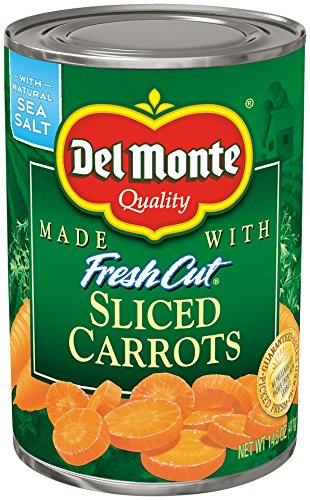
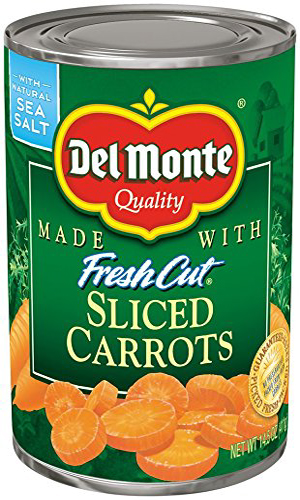
updates images-size

diff --git a/index.html b/index.html
@@ -1,93 +1,102 @@
 <!DOCTYPE html>
 <html lang="pt">
+  <head>
+    <meta charset="UTF-8" />
+    <meta name="viewport" content="width=device-width, initial-scale=1.0" />
+    <meta http-equiv="X-UA-Compatible" content="ie=edge" />
+    <link rel="stylesheet" href="./css/style.css" />
+    <link rel="stylesheet" href="./css/background-colors.css" />
+    <link rel="stylesheet" href="./css/bootstrap-grid.css" />
+    <link
+      href="https://fonts.googleapis.com/css?family=Roboto:400,500,700"
+      rel="stylesheet"
+    />
+    <title>New project</title>
+  </head>
 
-<head>
-  <meta charset="UTF-8" />
-  <meta name="viewport" content="width=device-width, initial-scale=1.0" />
-  <meta http-equiv="X-UA-Compatible" content="ie=edge" />
-  <link rel="stylesheet" href="./css/style.css" />
-  <link rel="stylesheet" href="./css/background-colors.css" />
-  <link rel="stylesheet" href="./css/bootstrap-grid.css" />
-  <link href="https://fonts.googleapis.com/css?family=Roboto:400,500,700" rel="stylesheet" />
-  <title>New project</title>
-</head>
+  <body>
+    <!--SECTION 1-->
+    <nav class="navbar bg-orange-700">
+      <div class="col-md-2" id="brand-logo">
+        <img src="" alt="logo" />
+      </div>
+      <div class="col-md-8" id="links">
+        <ul>
+          <li><a href="">About project</a></li>
+          <li><a href="">News</a></li>
+          <li><a href="">Structure</a></li>
+          <li><a href="">Detalis</a></li>
+          <li><a href="">Contact</a></li>
+        </ul>
+      </div>
+    </nav>
 
-<body>
-  <!--SECTION 1-->
-  <nav class="navbar bg-orange-700">
-    <div class="col-md-2" id="brand-logo">
-      <img src="" alt="logo" />
-    </div>
-    <div class="col-md-8" id="links">
-      <ul>
-        <li><a href="">About project</a></li>
-        <li><a href="">News</a></li>
-        <li><a href="">Structure</a></li>
-        <li><a href="">Detalis</a></li>
-        <li><a href="">Contact</a></li>
-      </ul>
-    </div>
-  </nav>
-
-  <!--SECTION 2-->
-  <div class="container-fluid bg-blue-500 promo">
-    <div class="row justify-content-around">
-      <div class="col-md-5" id="promo-one">
-        <h6>Grandes ofertas em nossa loja virtual</h6>
-      </div>
-      <div class="col-md-5" id="promo-two">
-        <h6>Confira nossos preços baixos</h6>
-      </div>
-    </div>
-  </div>
-
-  <!--SECTION 3-->
-  <div class="container-fluid">
-    <div class="row justify-content-center">
-      <div class="col-md-12 bg-green-400" id="offer">
-        <h6>Ofertas em destaque</h6>
-      </div>
-      <div class="col-md-6">
-        <img src="./img/product1.jpg" alt="product in offer" id="product-offer-1">
-      </div>
-      <div class="col-md-6">
-        <img src="./img/product2.jpg" alt="product in offer" id="product-offer-2">
+    <!--SECTION 2-->
+    <div class="container-fluid bg-blue-500 promo">
+      <div class="row justify-content-around">
+        <div class="col-md-5" id="promo-one">
+          <h6>Grandes ofertas em nossa loja virtual</h6>
+        </div>
+        <div class="col-md-5" id="promo-two">
+          <h6>Confira nossos preços baixos</h6>
+        </div>
       </div>
     </div>
-  </div>
 
-  <!--SECTION 4-->
-  <div class="container-fluid">
-    <div class="row justify-content-center">
-      <div class="col-md-12"></div>
+    <!--SECTION 3-->
+    <div class="container-fluid">
+      <div class="row justify-content-around">
+        <div class="col-md-12 bg-green-400" id="offer">
+          <h6>Ofertas em destaque</h6>
+        </div>
+        <div class="d-flex justify-content-center">
+          <img
+            src="./img/product1.jpg"
+            alt="product in offer"
+            id="product-offer-1"
+          />
+        </div>
+        <div class="d-flex justify-content-center">
+          <img
+            src="./img/product2.jpg"
+            alt="product in offer"
+            id="product-offer-2"
+          />
+        </div>
+      </div>
     </div>
-  </div>
 
-  <!--SECTION 5-->
-  <div class="container-fluid">
-    <div class="row justify-content-center">
-      <div class="col-md-3"></div>
-      <div class="col-md-3"></div>
-      <div class="col-md-3"></div>
+    <!--SECTION 4-->
+    <div class="container-fluid">
+      <div class="row justify-content-around">
+        <div class="col-md-12"></div>
+      </div>
     </div>
-    <div class="row justify-content-center">
-      <div class="col-md-3"></div>
-      <div class="col-md-3"></div>
-      <div class="col-md-3"></div>
+
+    <!--SECTION 5-->
+    <div class="container-fluid">
+      <div class="row justify-content-center">
+        <div class="col-md-3"></div>
+        <div class="col-md-3"></div>
+        <div class="col-md-3"></div>
+      </div>
+      <div class="row justify-content-center">
+        <div class="col-md-3"></div>
+        <div class="col-md-3"></div>
+        <div class="col-md-3"></div>
+      </div>
     </div>
-  </div>
 
-  <!--SECTION 6-->
-  <div class="container-fluid">
-    <div class="row justify-content-center">
-      <div class="col-md-4"></div>
-      <div class="col-md-4"></div>
-      <div class="col-md-4"></div>
+    <!--SECTION 6-->
+    <div class="container-fluid">
+      <div class="row justify-content-center">
+        <div class="col-md-4"></div>
+        <div class="col-md-4"></div>
+        <div class="col-md-4"></div>
+      </div>
     </div>
-  </div>
 
-  <script src="./js/jquery.js"></script>
-  <script src="./js/bootstrap.js"></script>
-</body>
-
+    <script src="./js/jquery.js"></script>
+    <script src="./js/bootstrap.js"></script>
+  </body>
 </html>

diff --git a/css/style.css b/css/style.css
@@ -25,7 +25,8 @@
   padding-bottom: 20px;
 }
 
-#promo-one, #promo-two {
+#promo-one,
+#promo-two {
   font-size: 40px;
   text-align: center;
   padding-top: 20px;
@@ -36,23 +37,16 @@
 #offer {
   font-size: 60px;
   text-align: center;
-  padding-top: 20px;
-  padding-bottom: 20px;
   color: #fff;
+  padding-top:30px;
+  padding-bottom: 30px;
 }
 
-#product-offer-1 {
-  width: 100%;
-  max-width: 400px;
-  height: auto;
-  padding:40px;
-  border: solid 1px;
-}
-
+#product-offer-1,
 #product-offer-2 {
   width: 100%;
-  max-width:280px;
-  height: auto;
-  padding:40px;
+  max-width: 200px;
+  height: 300px;
   border: solid 1px;
+  padding: 20px;
 }
